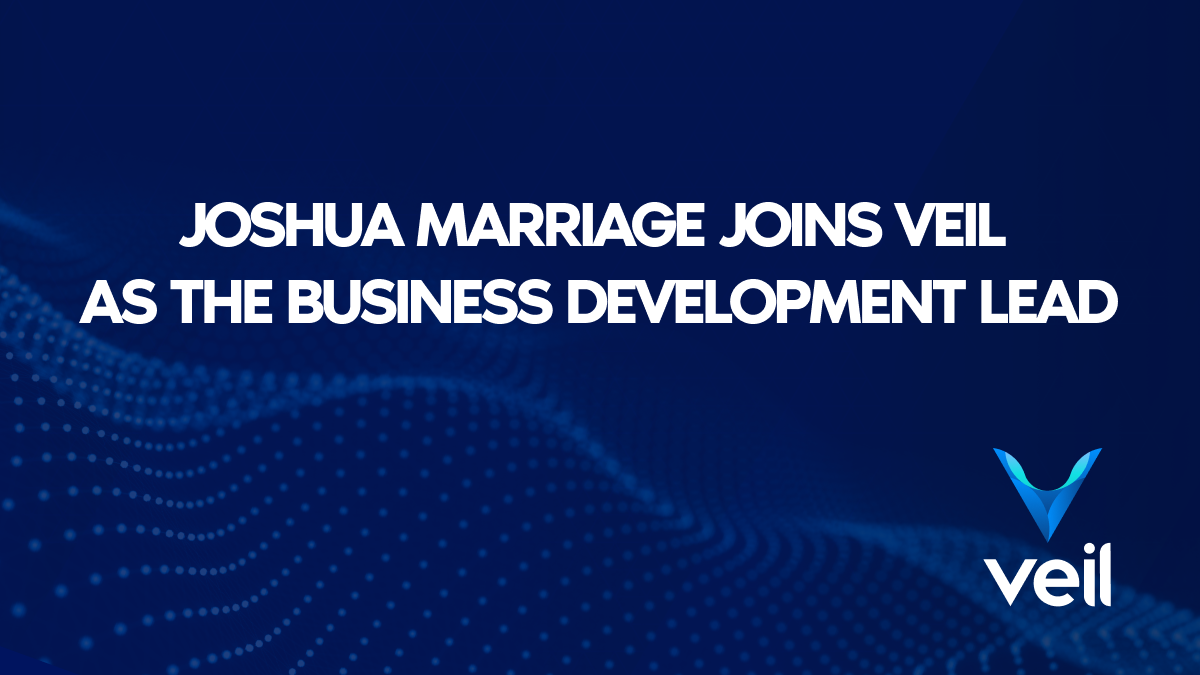
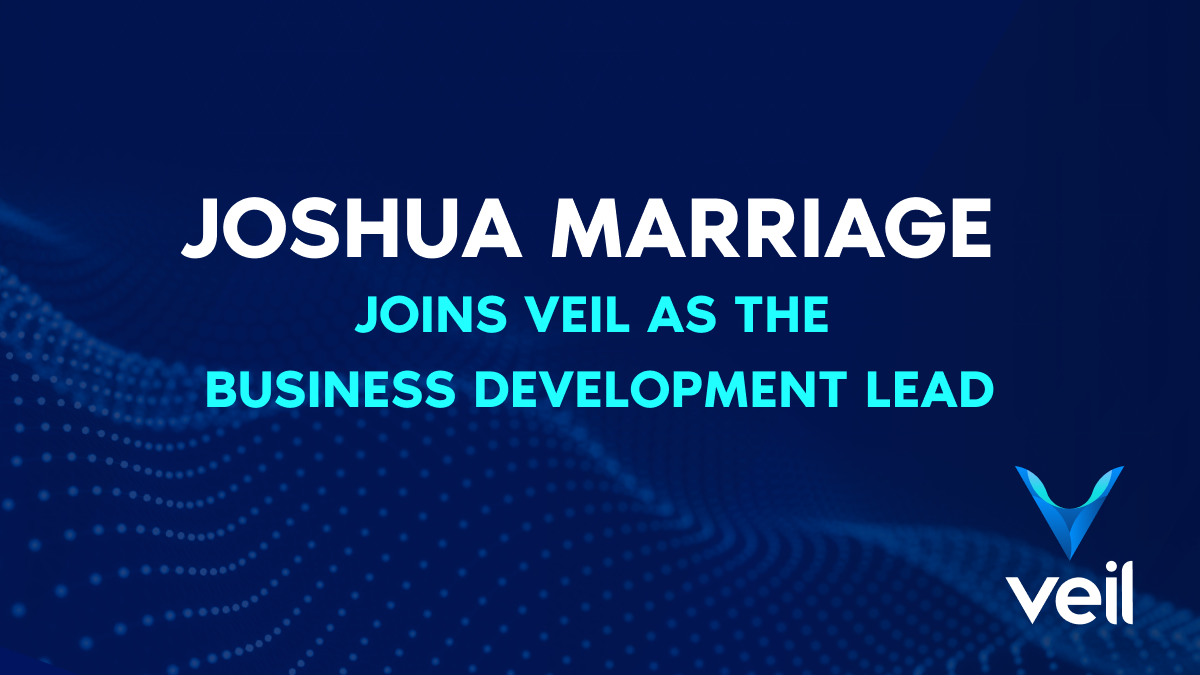
Team updates

Changed region(s): [[0.0617, 0.28, 0.9558, 0.4978], [0.1542, 0.5289, 0.8325, 0.6222], [0.8017, 0.6533, 0.9558, 0.9333]]

diff --git a/collections/_team_removed/027-joshuamarriage.md b/collections/_team_removed/027-joshuamarriage.md
@@ -1,0 +1,16 @@
+---
+layout: member
+ref: joshuamarriage
+name: Joshua Marriage
+username: joshuamarriage
+role: Lead Business Development
+portrait: joshuamarriage.jpg
+keybase_url: https://keybase.io/presstab
+keybase_key:
+intro: Presstab has extensive blockchain experience with in depth knowledge with proof of stake and proof of work consensus systems, privacy protocols, and deterministic decentralized systems. Presstab designed and implemented the world’s first private proof of stake protocol. Presstab is a revered personality in underground crypto circles.
+past_contributions: 
+- github.com/presstab
+- zDEX
+- PIVX
+description: 'Veil Project Tom Bradshaw—Lead blockchain architect Tom Bradshaw, aka presstab, long-time crypto developer, has previously worked on Hyperstake, Crown, PIVX, zDEX, and libzerocoin. Read more here.'
+---
